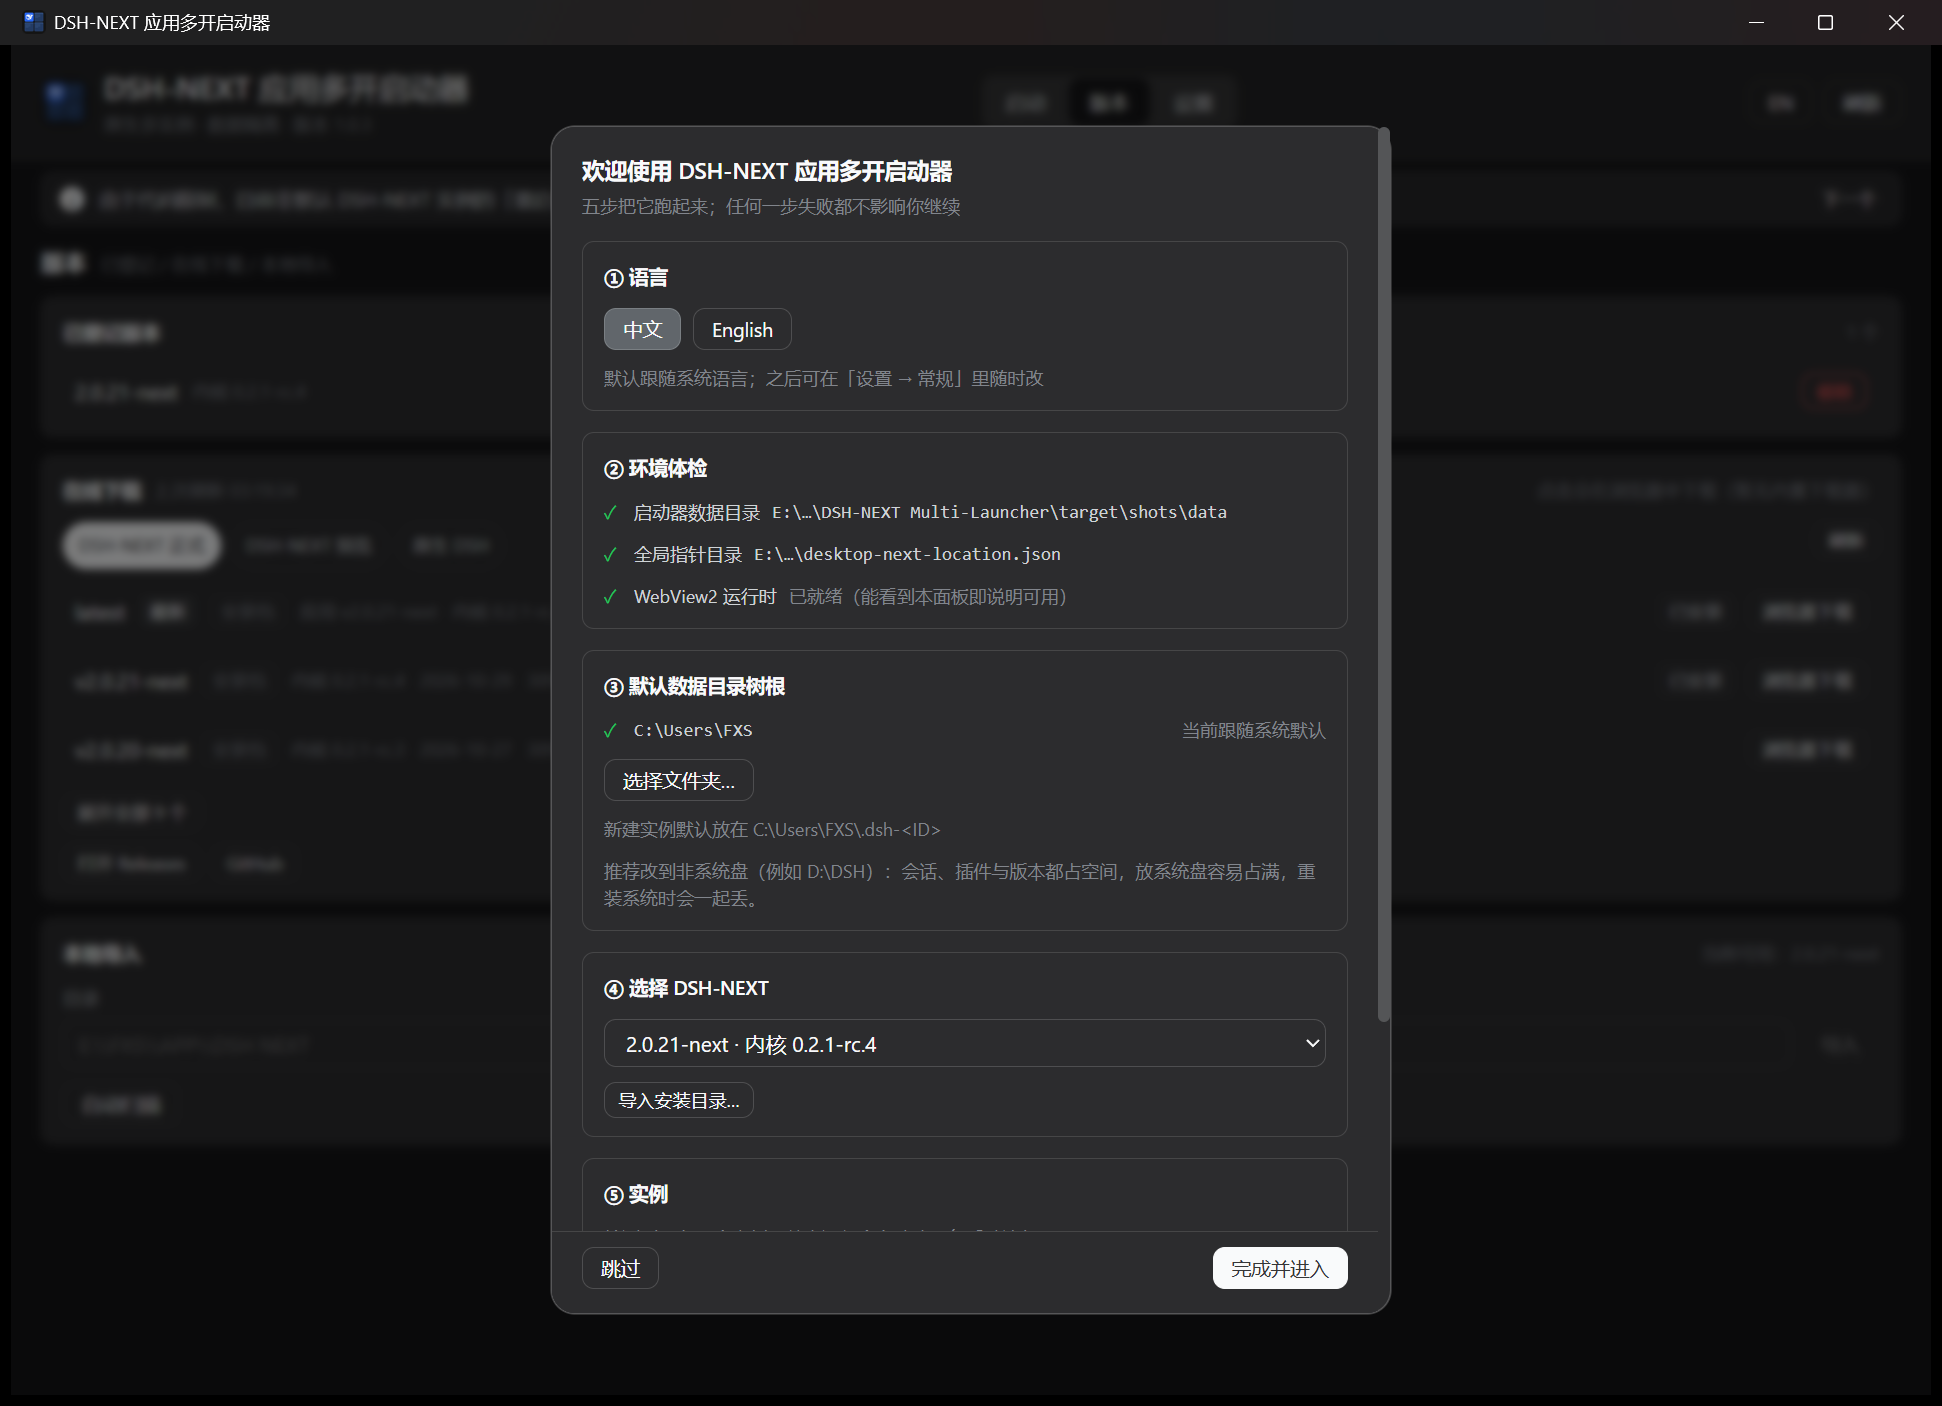
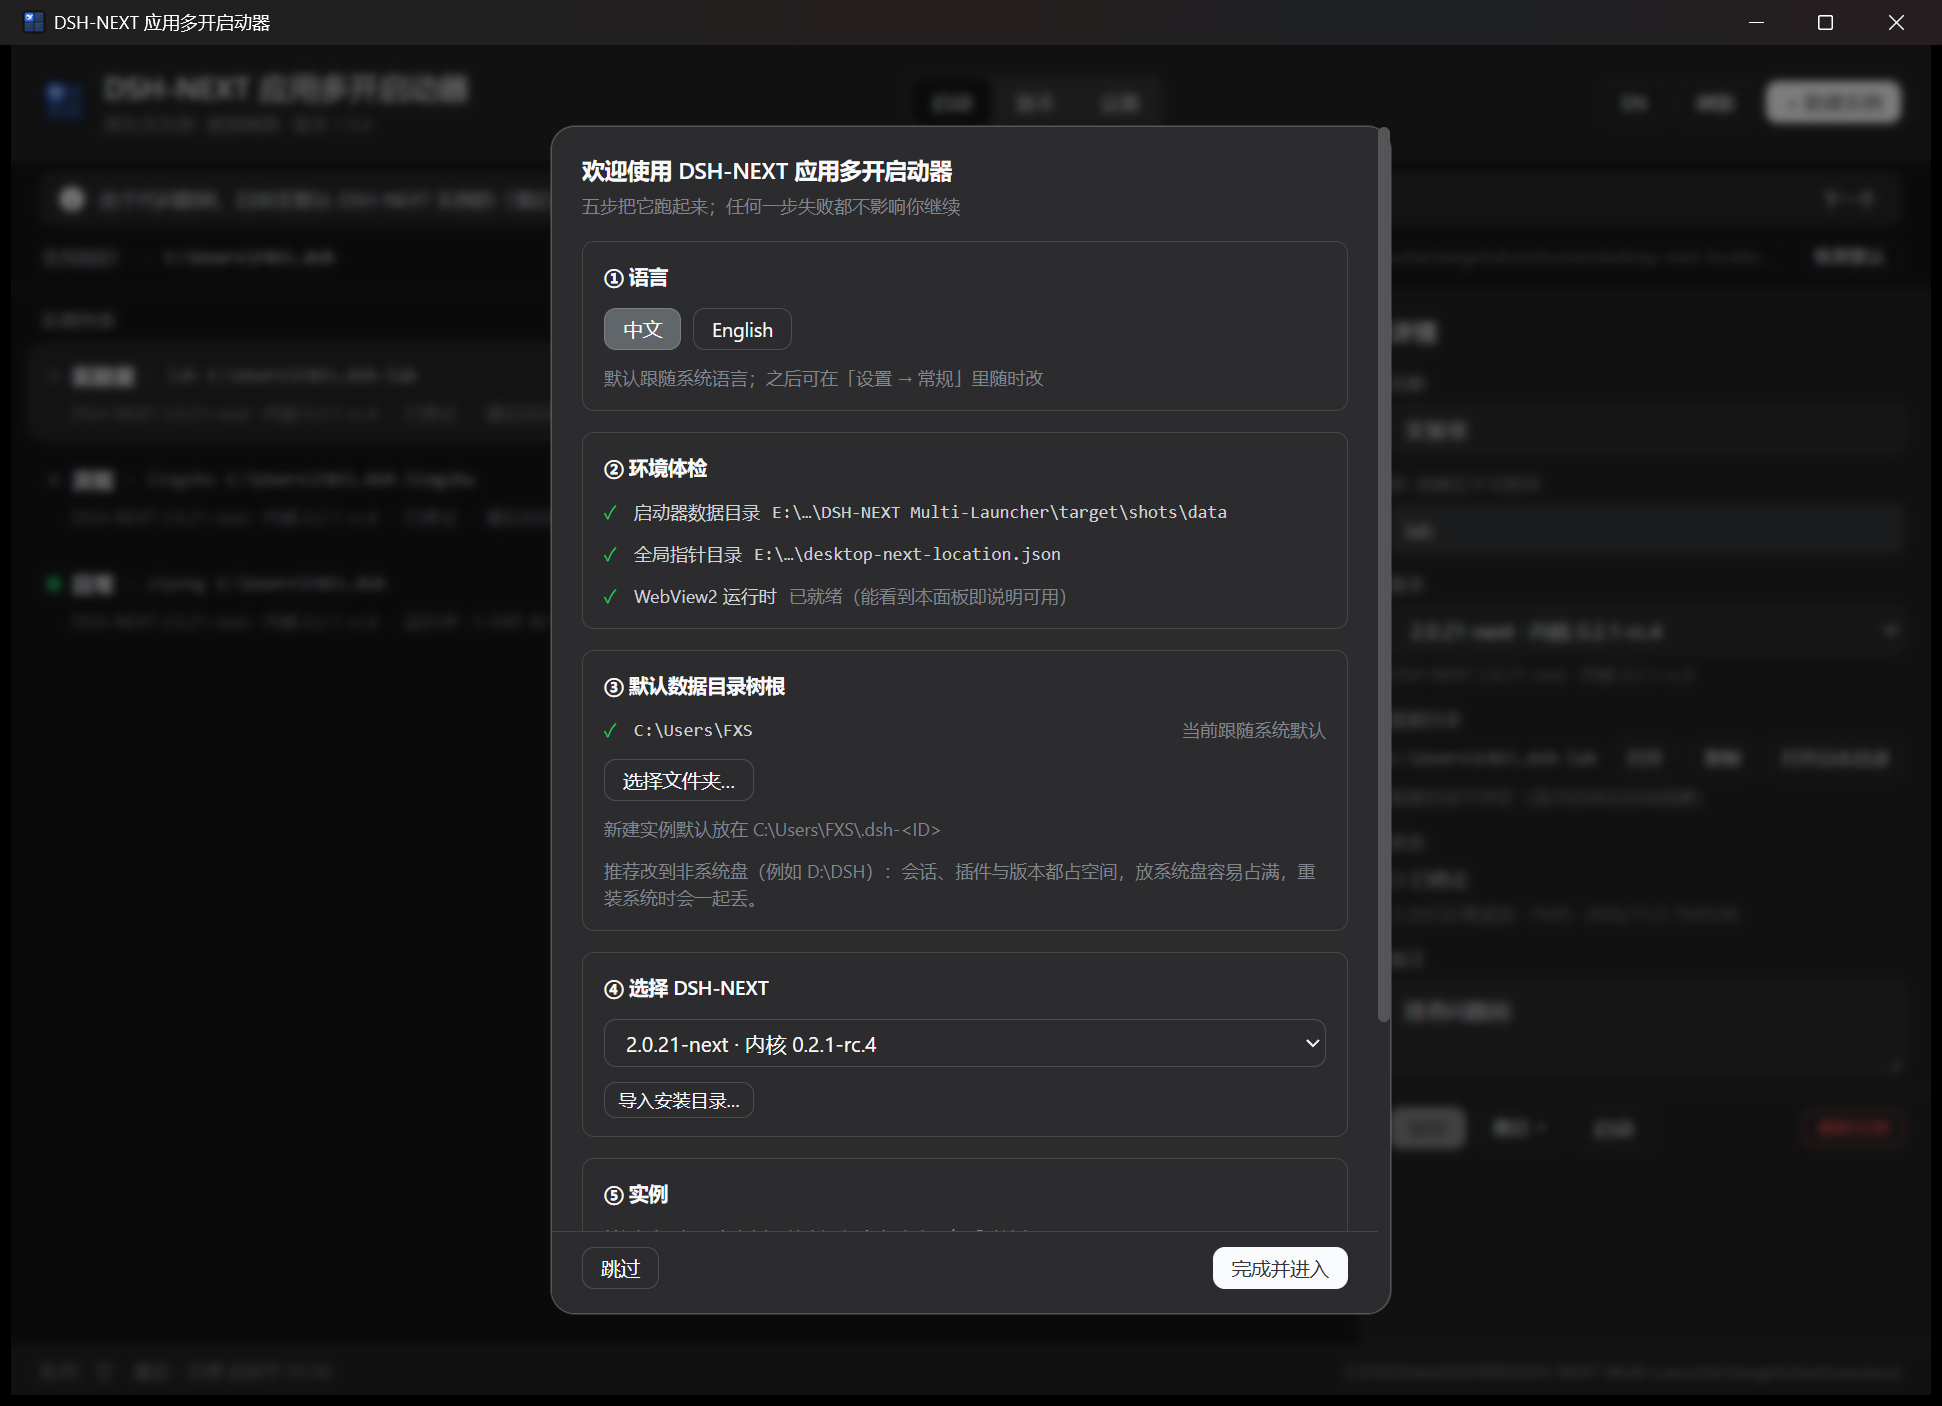
release: v1.0.4
- 版本号 1.0.4（package.json / Cargo.toml / tauri.conf.json）
- CHANGELOG：[Unreleased] 合并为 [1.0.4] - 2026-11-03，补对比链接
- README 截图按 1.0.4 重截（启动 / 版本 / 向导 / 设置）

diff --git a/CHANGELOG.md b/CHANGELOG.md
@@ -5,7 +5,7 @@
 格式参考 [Keep a Changelog](https://keepachangelog.com/zh-CN/1.1.0/)，
 版本号遵循 [语义化版本](https://semver.org/lang/zh-CN/)。
 
-## [Unreleased]
+## [1.0.4] - 2026-11-03
 
 ### 变更
 
@@ -154,6 +154,7 @@
 - 多开时全局指针唯一，同时运行多个非默认实例时只有最后启动的那个能正确重启
 - SmartScreen 对未签名 exe 的红色拦截无法用自签名消除
 
-[Unreleased]: https://github.com/XinSpark/dsh-next-multi-launcher/compare/v1.0.3...HEAD
+[Unreleased]: https://github.com/XinSpark/dsh-next-multi-launcher/compare/v1.0.4...HEAD
+[1.0.4]: https://github.com/XinSpark/dsh-next-multi-launcher/releases/tag/v1.0.4
 [1.0.3]: https://github.com/XinSpark/dsh-next-multi-launcher/releases/tag/v1.0.3
 [1.0.0]: https://github.com/XinSpark/dsh-next-multi-launcher/releases/tag/v1.0.0
